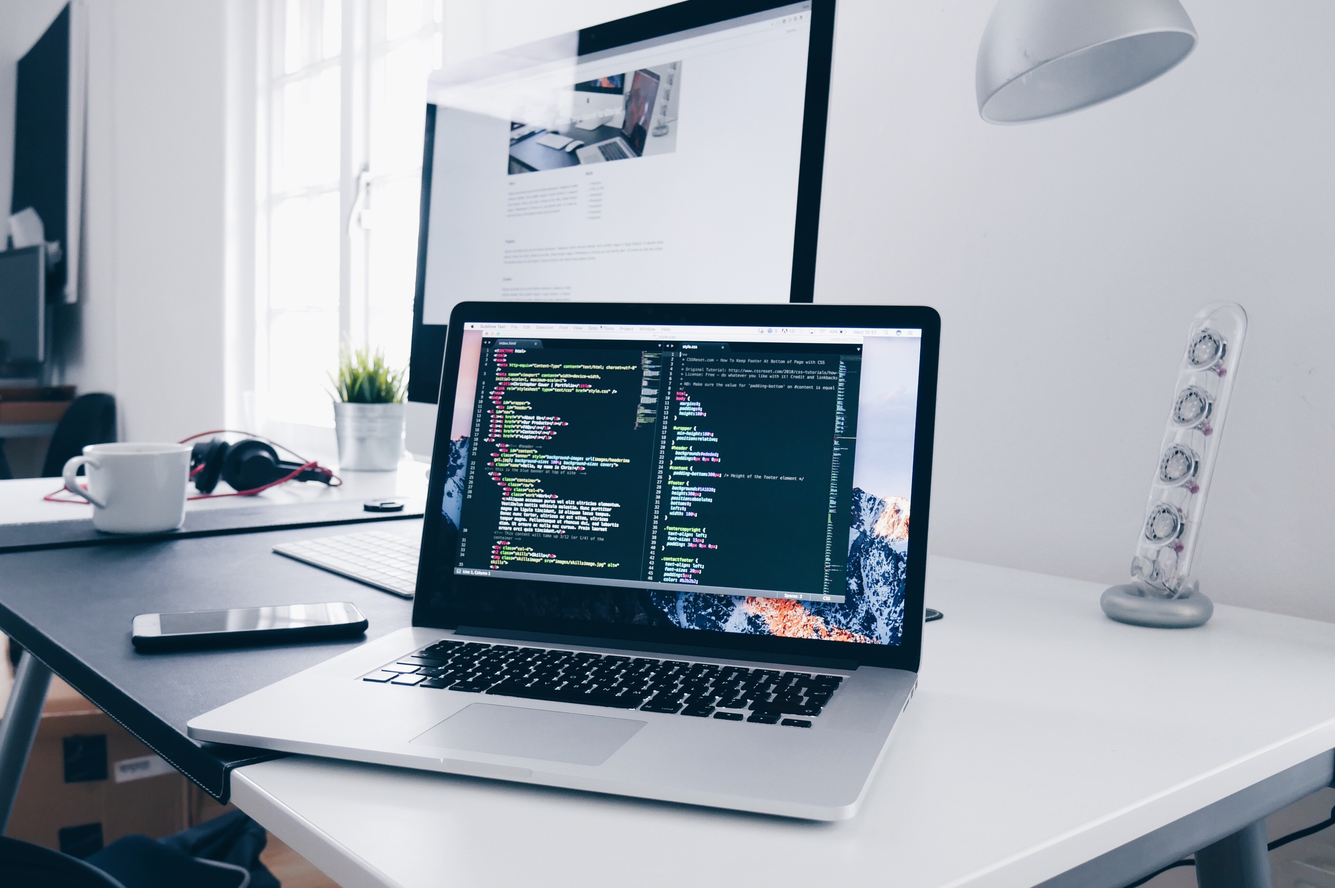
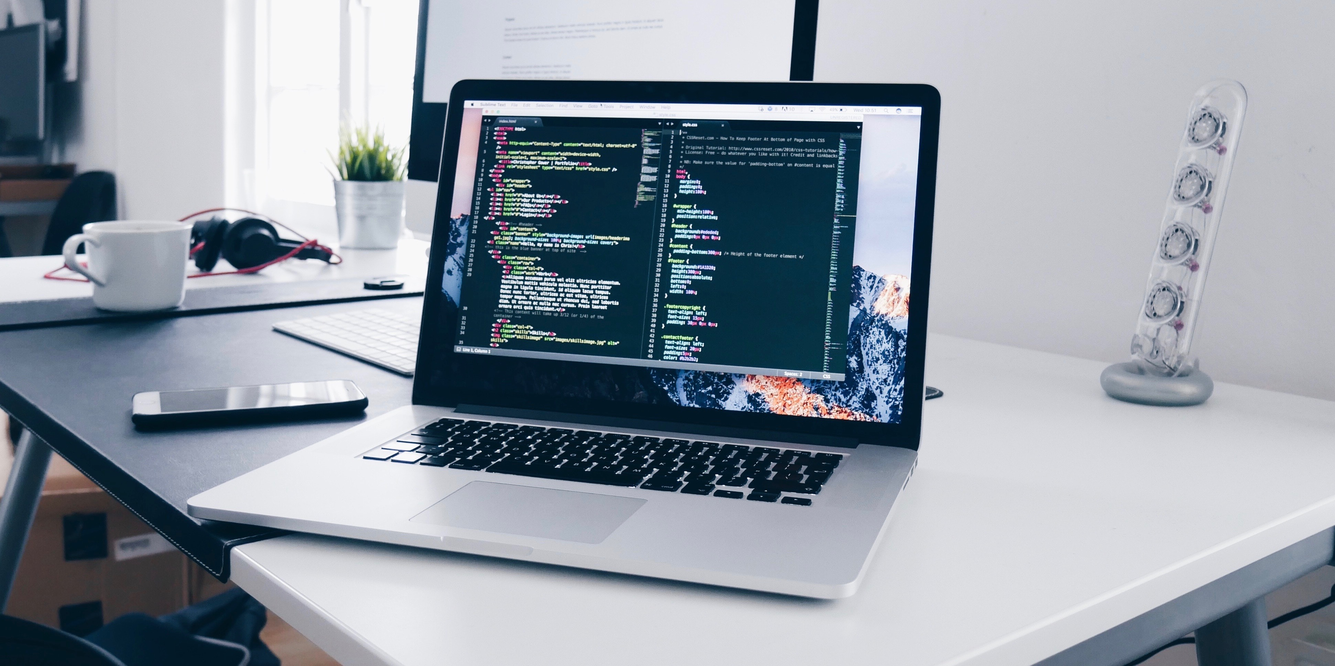
added a jumbotron with custom css

diff --git a/index.html b/index.html
@@ -18,28 +18,35 @@
 
 <body>
 
+    <!--Navbar-->
     <nav class="navbar navbar-expand-lg navbar-light bg-light">
-        <div class="container">
-            <a class="navbar-brand font-weight-bold" href="#"><h3>Will Rackley</h3></a>
-            <button class="navbar-toggler" type="button" data-toggle="collapse" data-target="#navbarSupportedContent" aria-controls="navbarSupportedContent" aria-expanded="false" aria-label="Toggle navigation">
-                <span class="navbar-toggler-icon"></span>
-            </button>
-            
-            <div class="collapse navbar-collapse" id="navbarSupportedContent">
-                <ul class="navbar-nav ml-auto">
-                    <li class="nav-item">
-                        <a class="nav-link" href="#"><h5>Portfolio</h5></a>
-                    </li>
-                    <li class="nav-item">
-                        <a class="nav-link" href="#"><h5>About</h5></a>
-                    </li>
-                    <li class="nav-item">
-                        <a class="nav-link" href="#"><h5>Contact</h5></a>
-                    </li>
-                </ul>
-            </div>
+        <a class="navbar-brand ml-5 font-weight-bold" href="#"><h3>Will Rackley</h3></a>
+        <button class="navbar-toggler" type="button" data-toggle="collapse" data-target="#navbarSupportedContent" aria-controls="navbarSupportedContent" aria-expanded="false" aria-label="Toggle navigation">
+            <span class="navbar-toggler-icon"></span>
+        </button>
+        
+        <div class="collapse navbar-collapse mr-5" id="navbarSupportedContent">
+            <ul class="navbar-nav ml-auto">
+                <li class="nav-item">
+                    <a class="nav-link" href="#"><h5>Portfolio</h5></a>
+                </li>
+                <li class="nav-item">
+                    <a class="nav-link" href="#"><h5>About</h5></a>
+                </li>
+                <li class="nav-item">
+                    <a class="nav-link" href="#"><h5>Contact</h5></a>
+                </li>
+            </ul>
         </div>
     </nav>
+
+    <!--Jumbotron-->
+    <div class="jumbotron jumbotron-fluid">
+       <img class="img-fluid" id="jbImg" src="assets/images/codingComputer.jpg" alt="picture of laptop">
+        <div class="jbText">
+            <h1 class="display-4 text-light">WELCOME</h1>
+        </div>
+    </div>
 
     <!--Jquery & Bootstrap JS-->
     <script src="https://code.jquery.com/jquery-3.3.1.slim.min.js" integrity="sha384-q8i/X+965DzO0rT7abK41JStQIAqVgRVzpbzo5smXKp4YfRvH+8abtTE1Pi6jizo" crossorigin="anonymous"></script>

diff --git a/assets/css/customize.css b/assets/css/customize.css
@@ -1,3 +1,29 @@
 .navbar-brand{
     font-family: 'Major Mono Display', monospace;
 }
+
+#jbImg{
+    margin-top: -65px;
+    margin-bottom: -65px;
+    filter: brightness(75%);
+}
+
+.jumbotron{
+    position: relative;
+}
+
+.jbText{
+    position: absolute;
+    top: 50%;
+    left: 50%;
+    transform: translate(-50%, -50%);
+}
+
+/*============= Media Queries=================*/
+
+@media screen and (max-width: 425px){
+    
+    #jbImg{
+        margin-top: -32px;
+    }
+}
